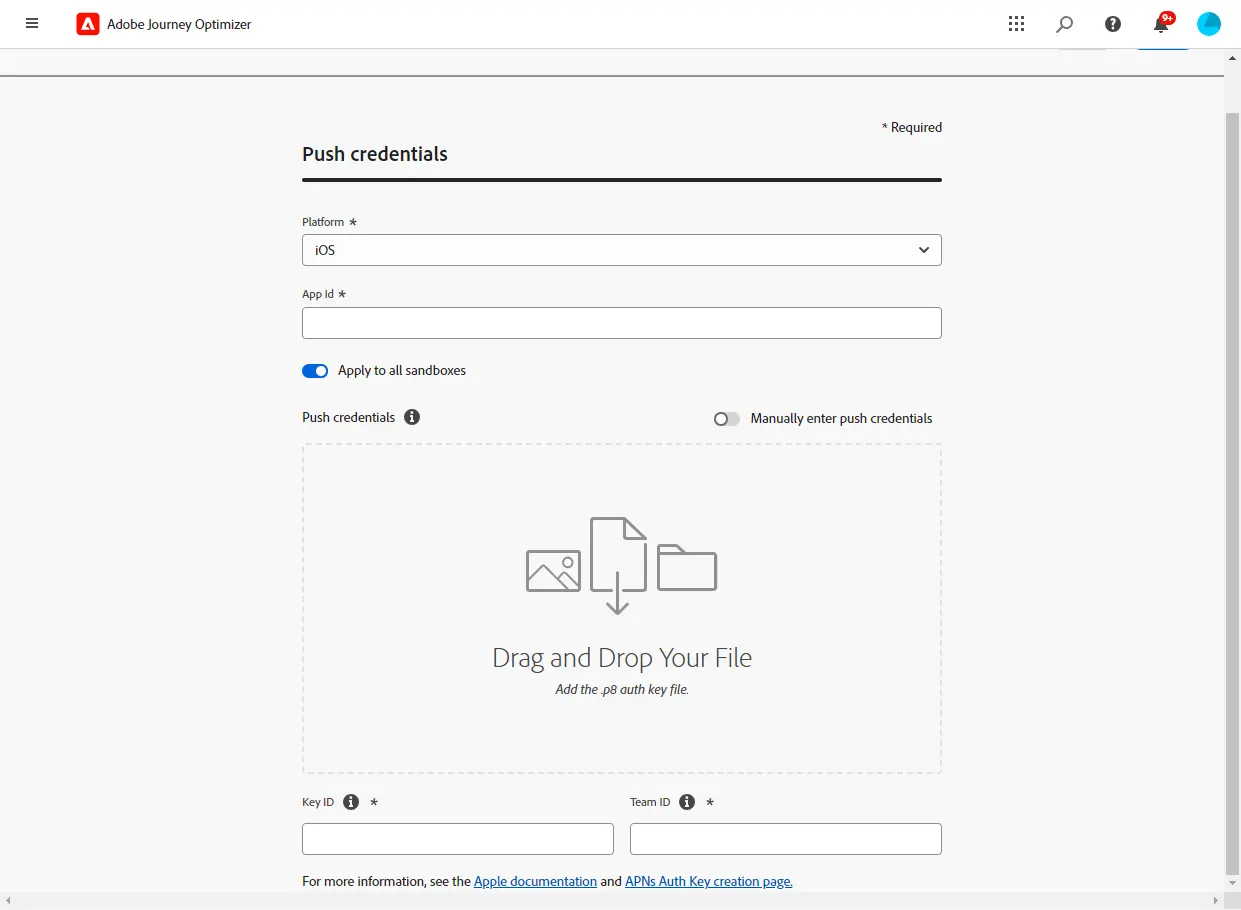
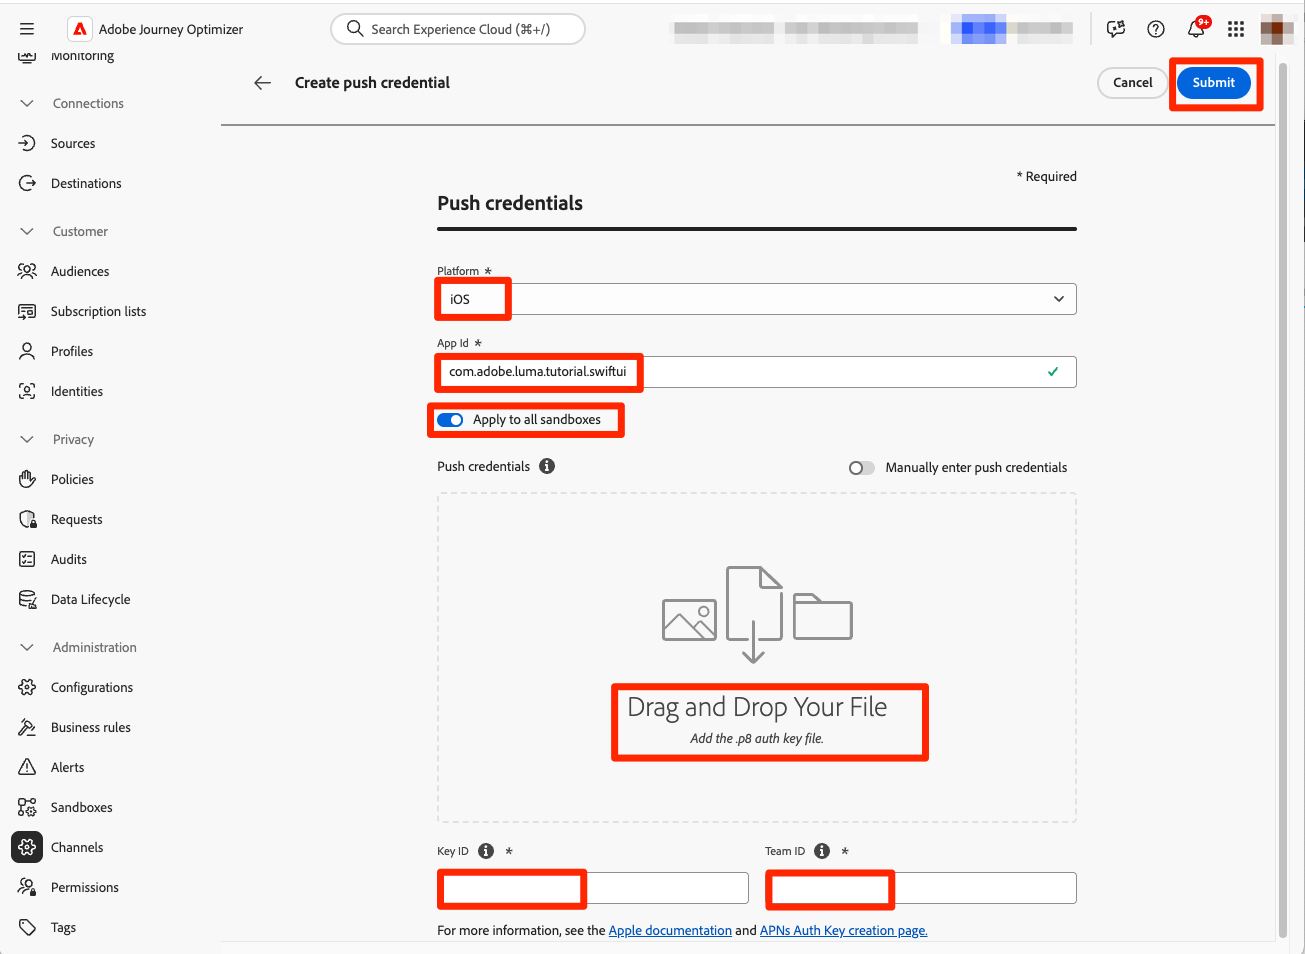
updates

diff --git a/help/tutorial-mobile-sdk/journey-optimizer-push.md b/help/tutorial-mobile-sdk/journey-optimizer-push.md
@@ -87,23 +87,24 @@ The mobile app push credential registration is required to authorize Adobe to se
 
 1. Select **[!UICONTROL Create push credential]**.
 
-1. From the **[!UICONTROL Platform]** drop-down, select the mobile operating system:
+
+    ![Create a new push credential configuration in Journey Optimizer](assets/add-push-credential-ios.png)
+
+1. From the **[!UICONTROL Platform]** drop-down, select the **iOS** operating system:
 
 
-    ![Push credential configuration in Journey Optimizer](assets/add-app-config-ios.png)
-
-    1. Enter the mobile app **[!UICONTROL App ID]**.
+    1. Enter the mobile app Bundle Id in the **[!UICONTROL App ID]** (iOS Bundle ID) field. For example, com.adobe.luma.tutorial.swiftui
     
     1. Enable the **[!UICONTROL Apply to all sandboxes]** option to make these Push credentials available across all sandboxes. If a specific sandbox has its own credentials for the same Platform and App ID pair, those sandbox-specific credentials will take precedence.
 
-    1. Switch on the **[!UICONTROL Manually enter push Credentials]** button to add your credentials.
     
-    1. Drag and drop your .p8 Apple Push Notification Authentication Key file obtained from the previous exercise.
+    1. Drag and drop your .p8 **Apple Push Notification Authentication Key** file obtained from the previous exercise.
 
-    1. Provide the **Key ID**. This is a 10 character string assigned during the creation of p8 auth key which you should have noted from the previous exercis
+    1. Provide the **[!UICONTROL Key ID]**, a 10-character string assigned during the creation of `p8` auth key. It can be found under the **[!UICONTROL Keys]** tab in the **Certificates, Identifiers and Profiles** page of the Apple Developer portal pages. (You should have noted during the previous exercise.)
     
-    1. Provide the **Team ID**. This is a string value which you should have noted from the previous exercise.
+    1. Provide the **[!UICONTROL Team ID]**. The Team ID is a value which can be found under the **Membership** tab or at the top of the Apple Developer portal page. (You should have noted during the previous exercise.)
 
+    ![Push credential configuration in Journey Optimizer](assets/add-app-config-ios.png)
 
 1. Click **[!UICONTROL Submit]** to create your push credential configuration.
 
@@ -133,7 +134,7 @@ Once you have created a push credential configuration, you must create a configu
 
 1. Select the same **[!UICONTROL App id]** as for your push credential configured above.
 
-1. Save your changes.
+1. Select **[!UICONTROL Submit]** to save your changes.
 
     ![Push channel configuration](assets/push-config-10.png)
     

diff --git a/help/tutorial-mobile-sdk/journey-optimizer-inapp.md b/help/tutorial-mobile-sdk/journey-optimizer-inapp.md
@@ -49,13 +49,13 @@ In this lesson, you will
 >If you have setup your environment already as part of the [Journey Optimizer push messaging](journey-optimizer-push.md) lesson, you might already have performed some of the steps in this setup section.
 
 
-#### Create a channel configuration in Journey Optimizer
+### Create a channel configuration in Journey Optimizer
 
 To begin, you must create a channel configuration to be able to send in App messages notifications from Journey Optimizer.
 
 1. In the Journey Optimizer interface open the **[!UICONTROL Channels]** > **[!UICONTROL General settings]** > **[!UICONTROL Channel configurations]** menu and then select **[!UICONTROL Create channel configuration]**.
 
-    ![](assets/push-config-9.png)
+    ![Create a channel configuration](assets/push-config-9.png)
 
 1. Enter a name and a description (optional) for the configuration.
 
@@ -76,9 +76,9 @@ To begin, you must create a channel configuration to be able to send in App mess
     >
     >For iOS and Android platforms, delivery is based solely on the app ID. If both apps share the same app ID, content will be delivered to both, regardless of the platform selected in the **[!UICONTROL Channel configuration]**.
 
-1. Save your changes.
+1. Select **[!UICONTROL Submit]** to save your changes.
 
-    ![](assets/inapp_config_10.png)
+    ![Configure the in-app channel](assets/inapp_config_10.png)
 
 ### Update datastream configuration
 
